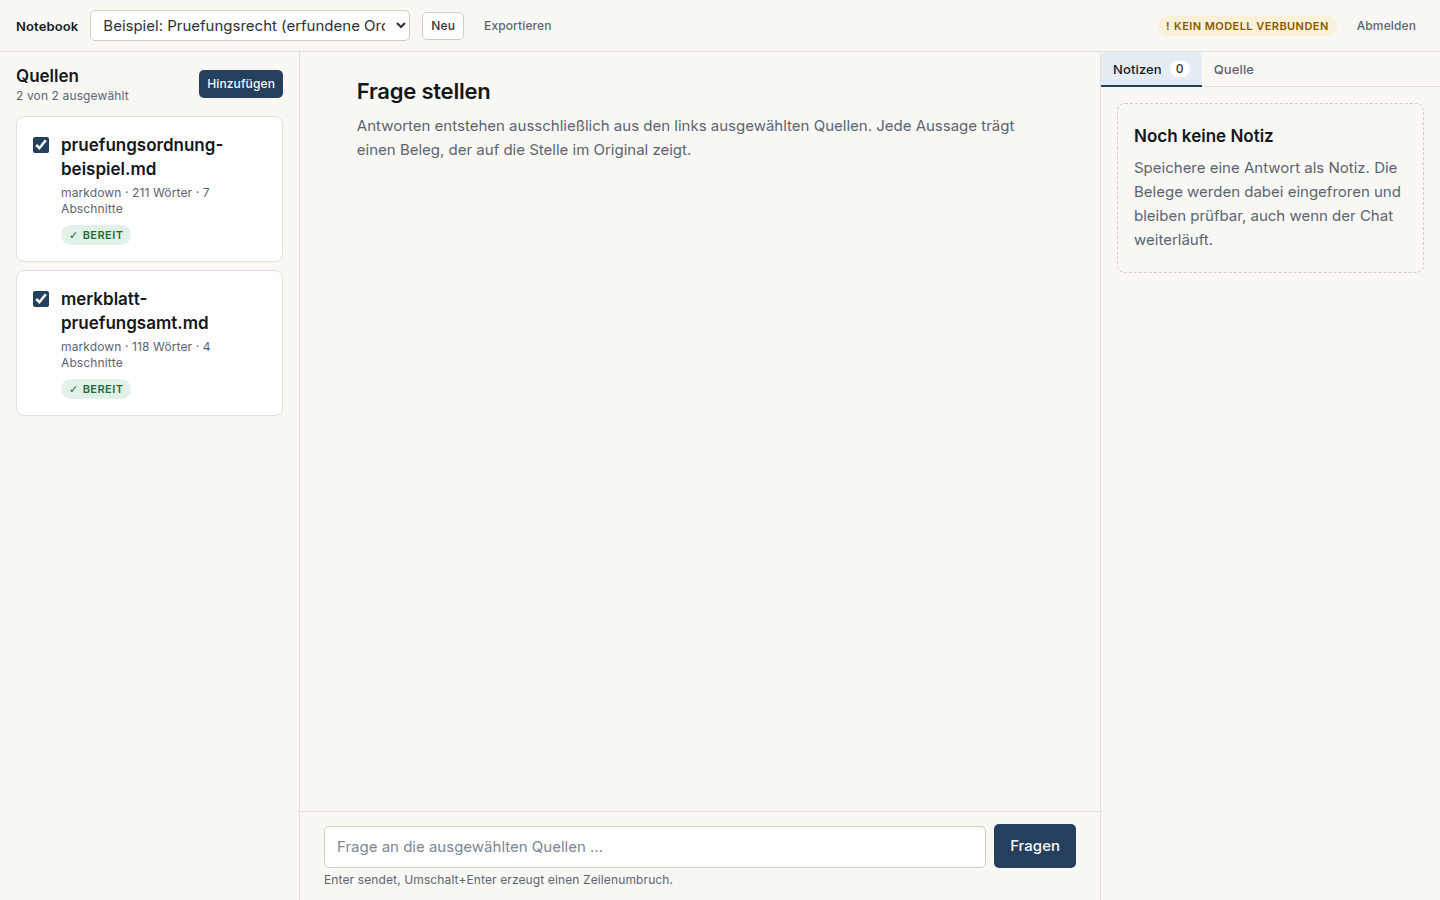
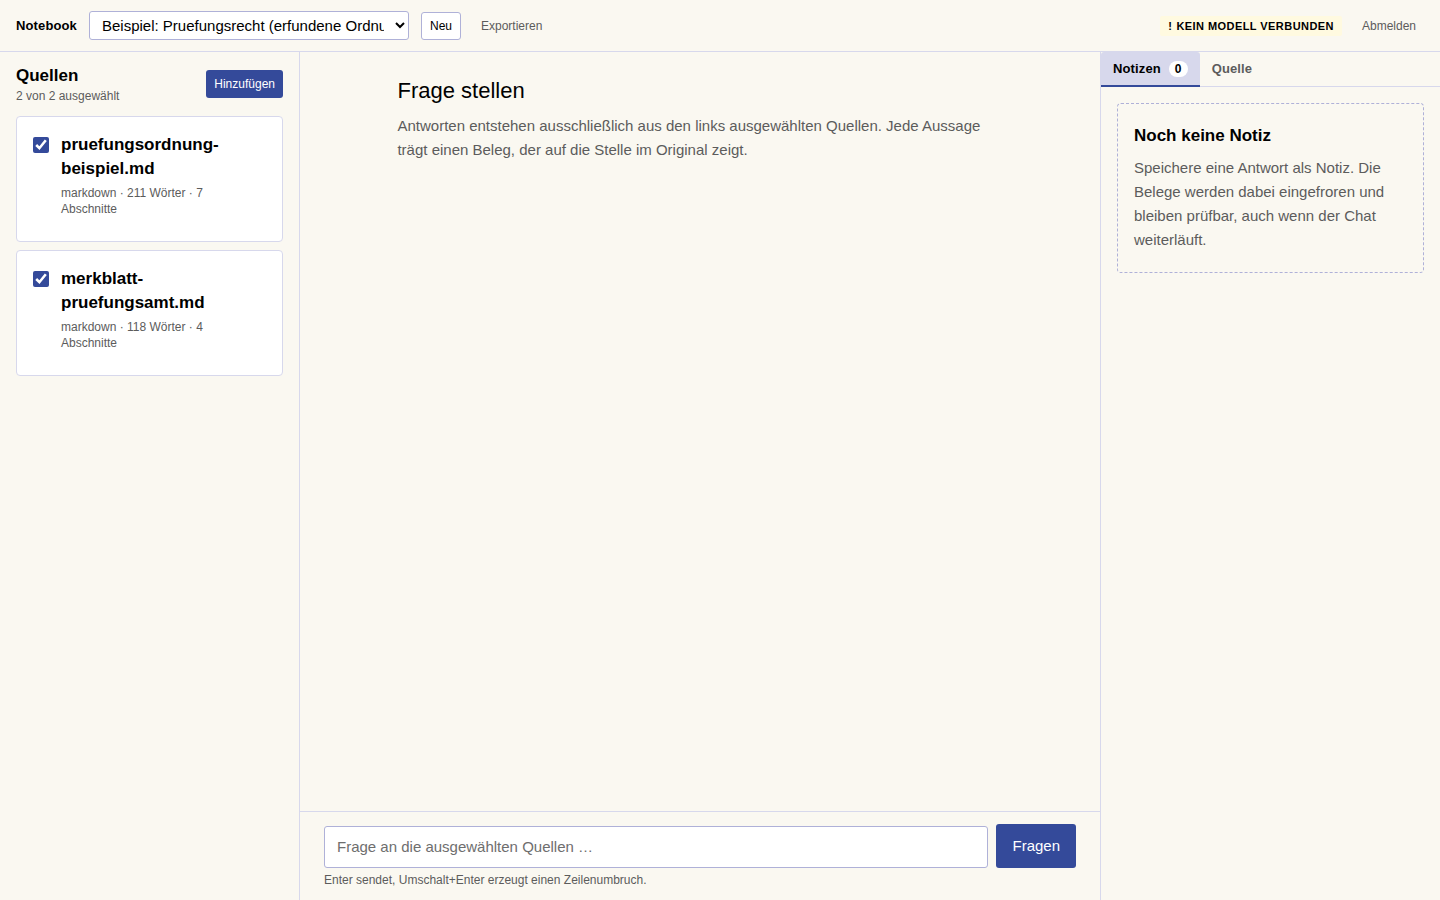
docs: Bildschirmfotos auf den CD-Stand erneuern
Die alten Aufnahmen zeigten das vorherige eigene Design und waren damit
irrefuehrend. Die Bildunterschrift nennt jetzt zusaetzlich, dass Arial zu sehen
ist und nicht die Hausschrift - sonst haelt ein Leser das Schriftbild fuer das
Ergebnis des Corporate Design.

Verifiziert-durch: alle vier Pfade in der README existieren; die Aufnahmen
stammen aus demselben Lauf wie die Kontrastmessung (2026-09-18).

diff --git a/README.md b/README.md
@@ -10,11 +10,19 @@ Verbindliche Arbeitsregeln: [`AGENTS.md`](AGENTS.md).
 
 ## So sieht es aus
 
-Alle Aufnahmen entstanden am 2026-09-17 an der laufenden Anwendung, **im Offline-Modus ohne
+Die Oberfläche folgt dem [Corporate Design der Universität Freiburg](https://cd.uni-freiburg.de):
+Blau `#344A9A`, Sandtöne, Schwarz für Text. Grün ist ausschließlich der Belegmechanik
+vorbehalten — deshalb ist ein Zitat die einzige grüne Stelle im Bild.
+
+Alle Aufnahmen entstanden am 2026-09-18 an der laufenden Anwendung, **im Offline-Modus ohne
 verbundenes Sprachmodell** — daher die Plakette „kein Modell verbunden" oben rechts und der
 Warnhinweis über der Antwort. Die Belegkette ist darin vollständig echt: die Marker zeigen
 auf tatsächlich abgerufene Abschnitte. Nur der Antworttext ist nicht formuliert, sondern
 eine Aufzählung der gefundenen Stellen.
+
+Die Hausschrift „Social" ist lizenzpflichtig und liegt nicht im Repository; die Aufnahmen
+zeigen daher **Arial**, die vom CD vorgesehene Zweitschrift. Siehe
+`apps/web/public/fonts/README.md`.
 
 ### Ein Beleg wird geprüft
 
@@ -32,8 +40,9 @@ Quellen links, Dialog in der Mitte, Notizen und Quellenansicht rechts.
 
 ### Dunkles Thema
 
-Dieselben semantischen Tokens, für das dunkle Thema neu belegt — keine Komponente kennt
-eine `dark:`-Variante.
+Aus den CD-Farben abgeleitet (Dunkelblau `#00004a` als Grundfläche). Das CD sieht kein
+dunkles Thema vor — die Abweichung ist in `docs/design-system.md`, Abschnitt 10,
+ausgewiesen. Keine Komponente kennt eine `dark:`-Variante.
 
 ![Derselbe Arbeitsbereich im dunklen Thema](docs/bilder/dunkles-thema.png)
 
@@ -84,7 +93,7 @@ konfigurierbar, `VITE_API_BASE_URL`.
 ## Aufbau
 
 ```
-apps/web        Vite + React 19, TypeScript strict, Tailwind 4, eigenes Design
+apps/web        Vite + React 19, TypeScript strict, Tailwind 4, CD der Universität
 apps/api        Fastify, SQLite aus Nodes Standardbibliothek, FTS5/BM25
 packages/shared zod-Schemata — der gemeinsame API-Vertrag
 e2e             Playwright, prüft den Hauptablauf Ende zu Ende
